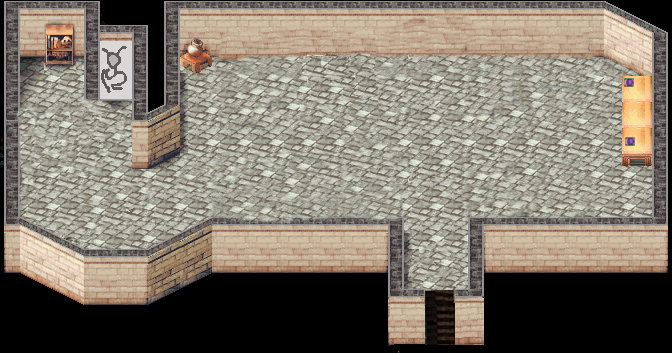
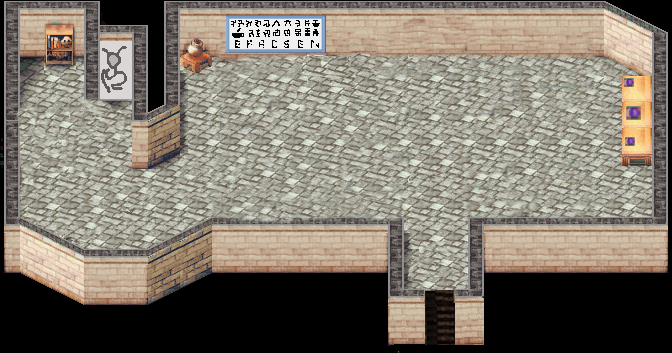
Modified CellarMap, added Board with clues + random stuff

Changed region(s): [[0.3125, 0.0312, 0.5, 0.1558], [0.9062, 0.2805, 0.9688, 0.3428]]

diff --git a/src/cellarScene.py b/src/cellarScene.py
@@ -20,7 +20,7 @@ class CellarScene(EscenaPygame):
         self.keys = pygame.key.get_pressed()
         self.done = False
         self.player = jugador1
-        fondo = pygame.image.load("../res/maps/first.png")
+        fondo = pygame.image.load("../res/maps/firstWithDoor.png")
         self.level = Level(fondo, self.screen_rect.copy(), self.player)
         self.grupoJugadores = pygame.sprite.Group(jugador1)
                 
